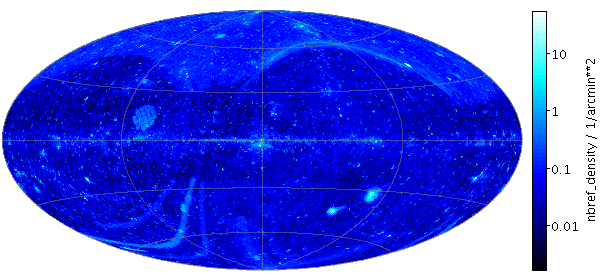
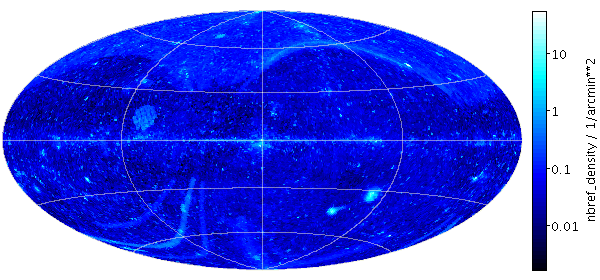
ttools: tweak axis colours for healpix example plot
Given the recent change in axis colour plotting behaviour
make a cosmetic change to the axis colour for one of the examples
so that it's more visible.

diff --git a/ttools/src/main/uk/ac/starlink/ttools/build/Plot2Example.java b/ttools/src/main/uk/ac/starlink/ttools/build/Plot2Example.java
@@ -1421,7 +1421,7 @@ public class Plot2Example {
                 "*datalevel1=8", "*degrade1=2",
                 "*combine=sum-per-unit", "*perunit=arcmin2", null,
                 "projection=aitoff", "*datasys1=equatorial", "viewsys=galactic",
-                "labelpos=none",
+                "labelpos=none", "gridcolor=beige",
                 null,
                 "auxfunc=log", "auxmap=cold", "auxflip=true",
                 "auxclip=0,1", null,
